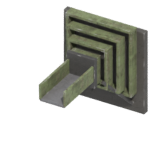
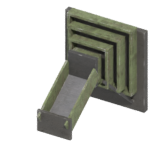
Ferramenta unica fe.bat / tools/fe.ps1: modelos alterados -> FBX -> bundle, icones do inventario, validar + compilar + instalar o mod

diff --git a/tools/blender_export_hd.py b/tools/blender_export_hd.py
@@ -1,0 +1,33 @@
+"""Re-exports Art/<model>/hd/<model>_HD.fbx from the textured <model>_HD.blend, after it was edited by hand in Blender.
+
+Same FBX settings as F:\\IA\\fe_blender\\texturizar_pbr.py (Unity: Y up, -Z forward, transform baked). Only meshes
+and empties are exported (cameras / lights of the scene are left out), like the texturizer does.
+
+    blender -b <model>_HD.blend --python tools/blender_export_hd.py -- <output.fbx>
+(tools/fe.ps1 calls it.)
+"""
+import sys
+
+import bpy
+
+out = sys.argv[sys.argv.index("--") + 1] if "--" in sys.argv else None
+if not out:
+    raise SystemExit("pass the output .fbx after --")
+objs = [o for o in bpy.context.scene.objects if o.type in ("MESH", "EMPTY")]
+if not objs:
+    raise SystemExit("no meshes in " + bpy.data.filepath)
+if bpy.context.object and bpy.context.object.mode != "OBJECT":
+    bpy.ops.object.mode_set(mode="OBJECT")
+bpy.ops.object.select_all(action="DESELECT")
+for o in objs:
+    o.hide_set(False)
+    o.select_set(True)
+bpy.context.view_layer.objects.active = objs[0]
+bpy.ops.export_scene.fbx(
+    filepath=out, use_selection=True, object_types={"MESH", "EMPTY"},
+    apply_unit_scale=True, apply_scale_options="FBX_SCALE_ALL",
+    axis_forward="-Z", axis_up="Y", bake_space_transform=True,
+    use_mesh_modifiers=True, mesh_smooth_type="FACE", use_tspace=True,
+    add_leaf_bones=False, bake_anim=False, path_mode="STRIP",
+)
+print("[fe] exported", len(objs), "objects ->", out, flush=True)

diff --git a/MODLOG.md b/MODLOG.md
@@ -1104,3 +1104,17 @@ Fase 1 — (feito) F1-T01: itens `feResourceIronPlate`, `feResourceIronShaft`, `
   `FeMerge_L/R` (a curva do outro lado girada 180°, lona com v invertido: corre do lado para a frente) e
   `FeMergeRail_L/R`. Reta + união(ões) quando há entrada por trás; só a(s) curva(s) de entrada quando não há.
   Render de conferência ok. **Não verificado no jogo.**
+
+## 2026-11-25: ferramenta única (fe.bat / tools/fe.ps1)
+
+- Pedido: um script para recompilar os modelos alterados no Blender, gerar os ícones e compilar/instalar o mod.
+- `fe.bat` (duplo clique = menu) chama `tools/fe.ps1 [estado|modelos|icones|mod|tudo] [-Modelos a,b] [-Forcar]
+  [-Copiar] [-Simular]`:
+  - modelos: `_HD.blend` mais novo que o `_HD.fbx` -> reexporta o FBX (`tools/blender_export_hd.py`, mesmas opções
+    do texturizador); `_src.blend` mais novo -> `F:\IA	exturizar.bat <config>` (os dois mudaram: vale o `_HD.blend`,
+    com aviso); `feKinetic.blend` mais novo que os FBX da lista do `export_feKinetic.py` -> reexporta; FBX/texturas
+    mais novos que o bundle -> Unity `FeBuild.BuildAll` (mostra os erros do febuild.log se falhar).
+  - icones: ícone mais velho que o `_HD.blend` -> `render_icons_hd.py` + `apply_icons.py`.
+  - mod: os 4 validadores, `build.ps1`, `install.ps1` (link; `-Copiar` = cópia); avisa se o jogo/Unity estão abertos.
+- Testado: estado, simulação de tudo, ícone do Funil, passo do mod (validadores, DLL, link), reexportação do
+  feCrusher para uma pasta temporária (FBX igual ao original). Não rodei a retexturização nem o Unity por ele.
